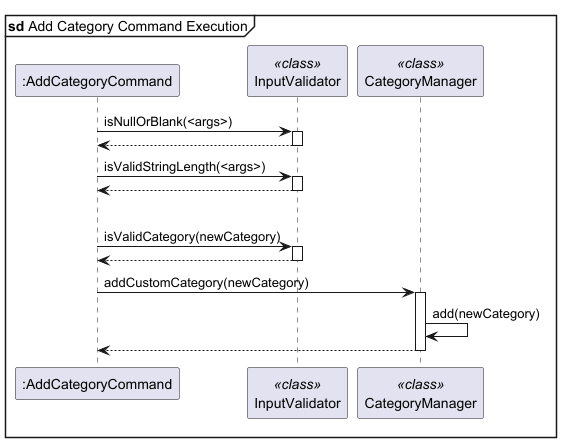
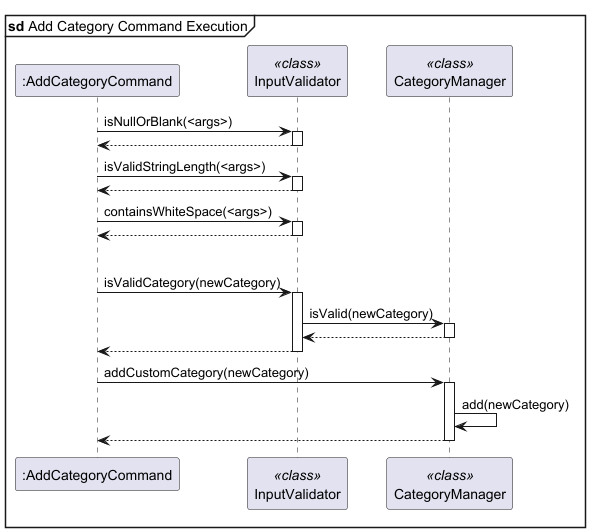
updated dg for list-sort, add/list category, and budget + reordered to match ug

Changed region(s): [[0.0, 0.0294, 1.0, 1.0], [0.4848, 0.7647, 0.5152, 0.7941]]

diff --git a/src/main/java/fintrek/command/add/AddCategoryCommand.java b/src/main/java/fintrek/command/add/AddCategoryCommand.java
@@ -31,7 +31,7 @@ public class AddCategoryCommand extends Command {
             return new CommandResult(false, message);
         }
 
-        if (!arguments.trim().matches("^\\S+$")) {
+        if (InputValidator.containsWhiteSpace(arguments.trim())) {
             return new CommandResult(false, MessageDisplayer.CATEGORY_WHITESPACE_ERROR);
         }
 

diff --git a/src/main/java/fintrek/util/InputValidator.java b/src/main/java/fintrek/util/InputValidator.java
@@ -55,4 +55,8 @@ public class InputValidator {
     public static boolean isValidCategory(String input) {
         return CategoryManager.isValid(input);
     }
+
+    public static boolean containsWhiteSpace(String input) {
+        return !input.matches("^\\S+$");
+    }
 }

diff --git a/docs/DeveloperGuide.md b/docs/DeveloperGuide.md
@@ -64,13 +64,13 @@ Core Module Roles
 High-Level Flow Summary
 -------------------------
 
-1. **[Main]** launches the application and starts **[Ui]**.
-2. **[Ui]** receives input from **[User]** and routes it to **[CommandRegistry]**.
-3. **[CommandRegistry]** locates the correct **[Command]** to execute.
-4. If needed, **[Command]** invokes **[CommandParser]** to extract arguments.
-5. **[Command]** operates on **[Expenses]** to modify data.
-6. **[Expenses]** interacts with **[Data]** to persist changes.
-7. Throughout the process, **[Util]** and **[Messages]** support validation
+1. `Main` launches the application and starts `Ui`.
+2. `Ui`receives input from `User` and routes it to `CommandRegistry`.
+3. `CommandRegistry` locates the correct `Command` to execute.
+4. If needed, `Command` invokes `CommandParser` to extract arguments.
+5. `Command` operates on `Expenses` to modify data.
+6. `Expenses` interacts with `Data` to persist changes.
+7. Throughout the process, `Util` and `Messages` support validation
    and formatting for consistent behavior and output.
 
 -------------------
@@ -82,8 +82,7 @@ Design Principles
 - Shared utilities reduce duplication and improve maintainability.
 - Centralized message system ensures consistency in user output.
 
-
-
+---
 # Design & Implementation
 ## Ui + Command Registry
 Here’s a (partial) class diagram of the Ui + Command Registry component
@@ -112,7 +111,7 @@ The `/add` command enables users to add an expense into the list of expenses.
 
 #### Step-by-Step Execution Flow
 1. `AddCommand` receives the user's argument, which is in the form `<DESCRIPTION> $<AMOUNT> [/c <CATEGORY>] [/dt <DATE>]`.
-2. Through a complicated process there by abstracted out as a reference frame, the user's
+2. Through a parsing process to be further explained in the **Parsing** section, the user's
 argument is then parsed to obtain the following parameters:
 
 - `<desc>`: The expense description, limited to 100 characters
@@ -130,18 +129,6 @@ is the constructor for the `Expense` object.
 - This internally invokes `addExpense(newExpense)` on `RegularExpenseManager`
 - `RegularExpenseManager` then adds `newExpense` into the current list of expenses, and the confirmation is
 subsequently returned to `AddCommand`
-
-### Calculating Average Expenses
-
-The `/average` command enables users to calculate the average amount out of their
-current list of expenses
-
-![](images/average.png)
-
-#### Step-by-Step Execution Flow
-
-1. The user executes `/average` to get the average amount from their list of expenses.
-2. `AverageCommand` invokes `getAverage()` on `ExpenseReporter`, which then returns the `average`.
 
 ### Delete Expenses
 
@@ -177,6 +164,31 @@ The `/delete` command enables users to remove an expense from the expense list b
 7. After deletion, the command may call countExpenses() again:
   - This allows it to report the new size (M) of the expense list
   - The new count is retrieved in the same way via getLength()
+
+### Edit Expenses
+
+The `/edit` command allows us the user modify `DESCRIPTION`, `AMOUNT`, `CATEGORY` and `DATE` of a
+
+![](images/editCommand.png)
+
+#### Step-by-Step Execution Flow
+1. The user launches the application and adds some expenses into the application.
+
+2. The user executes `/edit 2 /$ 10` to edit a regular expense with `INDEX` 2 in the list and change its `AMOUNT` to `$10` now.
+   The `execute()` will call `parse(arguments)`to parse all the parameters needed to be edited.
+
+3. The `INDEX` will be checked to see if it lies within the lower and upper bound.
+   The lower bound is set to 1, while the upper bound is done by calling `countExpenses()`, on `ExpenseService`, - 1 since the indexes start from zero.
+
+4. Upon validation of the index, it will call `getExpense(index)` on `ExpenseService` to get an `Expense` object: `original` to be modified.
+
+5. An `Expense` object called `updated` will be compared with the `original` with the parameter needed to be changed.
+
+6. Next, it will call `popExpense(index)` to remove `original` from the list and then `insertExpense(index, updated)` to insert the updated expense at the same `index`.
+
+7. Finally, it will return a confirmation by returning `new CommandResult(true, message)` in which `message` is the successful message after updating the expense.
+   This signifies the end and successful process of `/edit`.
+
 ### List Expenses
 The `/list` command lists down the current list of expenses, according to the order the expenses
 have been added.
@@ -199,29 +211,79 @@ the `String` equivalent of the list of expenses from `Expenses`, an `ArrayList<>
 
 4. `ListCommand` displays the current list of expenses along with a successful command message.
 
-### Edit Expenses
+### Sorting Expenses
 
-The `/edit` command allows us the user modify `DESCRIPTION`, `AMOUNT`, `CATEGORY` and `DATE` of a
+The `/list-sort` command enables users to display expense list in a sorted order.
 
-![](images/editCommand.png)
+![](images/list_sort.png)
 
 #### Step-by-Step Execution Flow
-1. The user launches the application and adds some expenses into the application.
+1. The user executes `/list-sort name asc` to view expense list for sorted a specific way: by `NAME` in `ASCENDING` order.
+2. The `execute()` method calls `parse(<args>)` to invoke a parsing process to be explained in the **Parsing** section,
+   to obtain the following parameters:
+    - `<sortBy>`: condition in which list would be sorted by, in this case `NAME`
+    - `<sortDir>`: direction in which list would be sorted by, in this case `ASC`
+3. Using the parameters obtained, the type of comparator is determined through `getComaparator(sortBy)`,
+   while `setDirection()` reverses the comparator if `sortDir` is descending.
+4. The `getAllExpenses()` method in `ExpenseService` is then called,
+   which retrieves an ArrayList of `Expense` objects from the `getAll()` method in `RegularExpenseManager`.
+5. This list of expenses is sorted using the comparator obtained in step 3,
+   and converted to a string using `listExpenseBuilder()` in `ExpenseReporter`.
 
-2. The user executes `/edit 2 /$ 10` to edit a regular expense with `INDEX` 2 in the list and change its `AMOUNT` to `$10` now.
-The `execute()` will call `parse(arguments)`to parse all the parameters needed to be edited.
+### Calculating Average Expenses
 
-3. The `INDEX` will be checked to see if it lies within the lower and upper bound.
-The lower bound is set to 1, while the upper bound is done by calling `countExpenses()`, on `ExpenseService`, - 1 since the indexes start from zero.
+The `/average` command enables users to calculate the average amount out of their
+current list of expenses
 
-4. Upon validation of the index, it will call `getExpense(index)` on `ExpenseService` to get an `Expense` object: `original` to be modified.
+![](images/average.png)
 
-5. An `Expense` object called `updated` will be compared with the `original` with the parameter needed to be changed. 
+#### Step-by-Step Execution Flow
 
-6. Next, it will call `popExpense(index)` to remove `original` from the list and then `insertExpense(index, updated)` to insert the updated expense at the same `index`.
+1. The user executes `/average` to get the average amount from their list of expenses.
+2. `AverageCommand` invokes `getAverage()` on `ExpenseReporter`, which then returns the `average`.
 
-7. Finally, it will return a confirmation by returning `new CommandResult(true, message)` in which `message` is the successful message after updating the expense.
-This signifies the end and successful process of `/edit`.
+
+### Adding Categories
+
+The `/add-category` command enables users to add custom categories to the list of valid categories.
+
+![](images/add_category.png)
+
+#### Step-by-Step Execution Flow
+1. The user executes `/add-category shopping` to add category `SHOPPING`.
+2. The command calls methods in `InputValidator` to verify if input is valid:
+   - `isNullOrBlank()` checks if input is empty.
+   - `containsWhiteSpace()` checks if input contains spaces.
+   - `isValidStringLength()` checks if input exceeds 100 characters.
+3. If input is valid, command assigns `newCategory` to the valid input
+4. Command checks if category already exists by calling `isValidCategory()` in `InputValidator`, which checks validity with `CategoryManager`.
+5. If category is valid, command calls `addCustomCategory()` which invokes `add()` in `CategoryManager` to successfully add category to list.
+
+### Listing Categories
+
+The `/list-category` command enables users to view the list of valid categories
+
+![](images/list_category.png)
+
+#### Step-by-Step Execution Flow
+1. The user executes `/list-category` to check list of valid categories.
+2. Command calls `getDefaultCategories()` and `getCustomCategories()` in `CategoryManager`
+which both internally invokes `getCategoriesAsString()` to convert a Hash Set of categories to a string.
+3. CategoryManager returns default and custom categories as separate strings to be combined 
+to form the list of categories displayed to user.
+
+### Setting budget
+
+The `/budget` command enables users to set a monthly budget.
+
+![](images/budget.png)
+
+#### Step-by-Step Execution Flow
+1. The user executes `/budget $100` to set budget as `100`.
+2. The command calls methods in `InputValidator` to verify if input is valid:
+    - `isNullOrBlank()` checks if input is empty.
+    - `isValidPostiveDouble()` checks if amount is a valid double value more than 0.
+3. If input amount is valid, command instantiates `BudgetManager` which internally calls `setBudget()` to set amount as budget.
 
 ### Summary of Expenses
 
@@ -256,8 +318,12 @@ The `/help` command allows users to get more information about the features in t
 #### Step-by-Step Execution Flow
 1. The user executes `/help add` to view more information about the `/add` command. The `execute()`
 method identifies the known command input and calls `getCommandDescriptions()` on `CommandRegistry`.
-2. 
 
+### Structured Input Parsing in Commands
+![](images/parse_w_ref.png)
+{add elab}
+
+---
 ## Expense
 
 ![](images/Expense.png)
